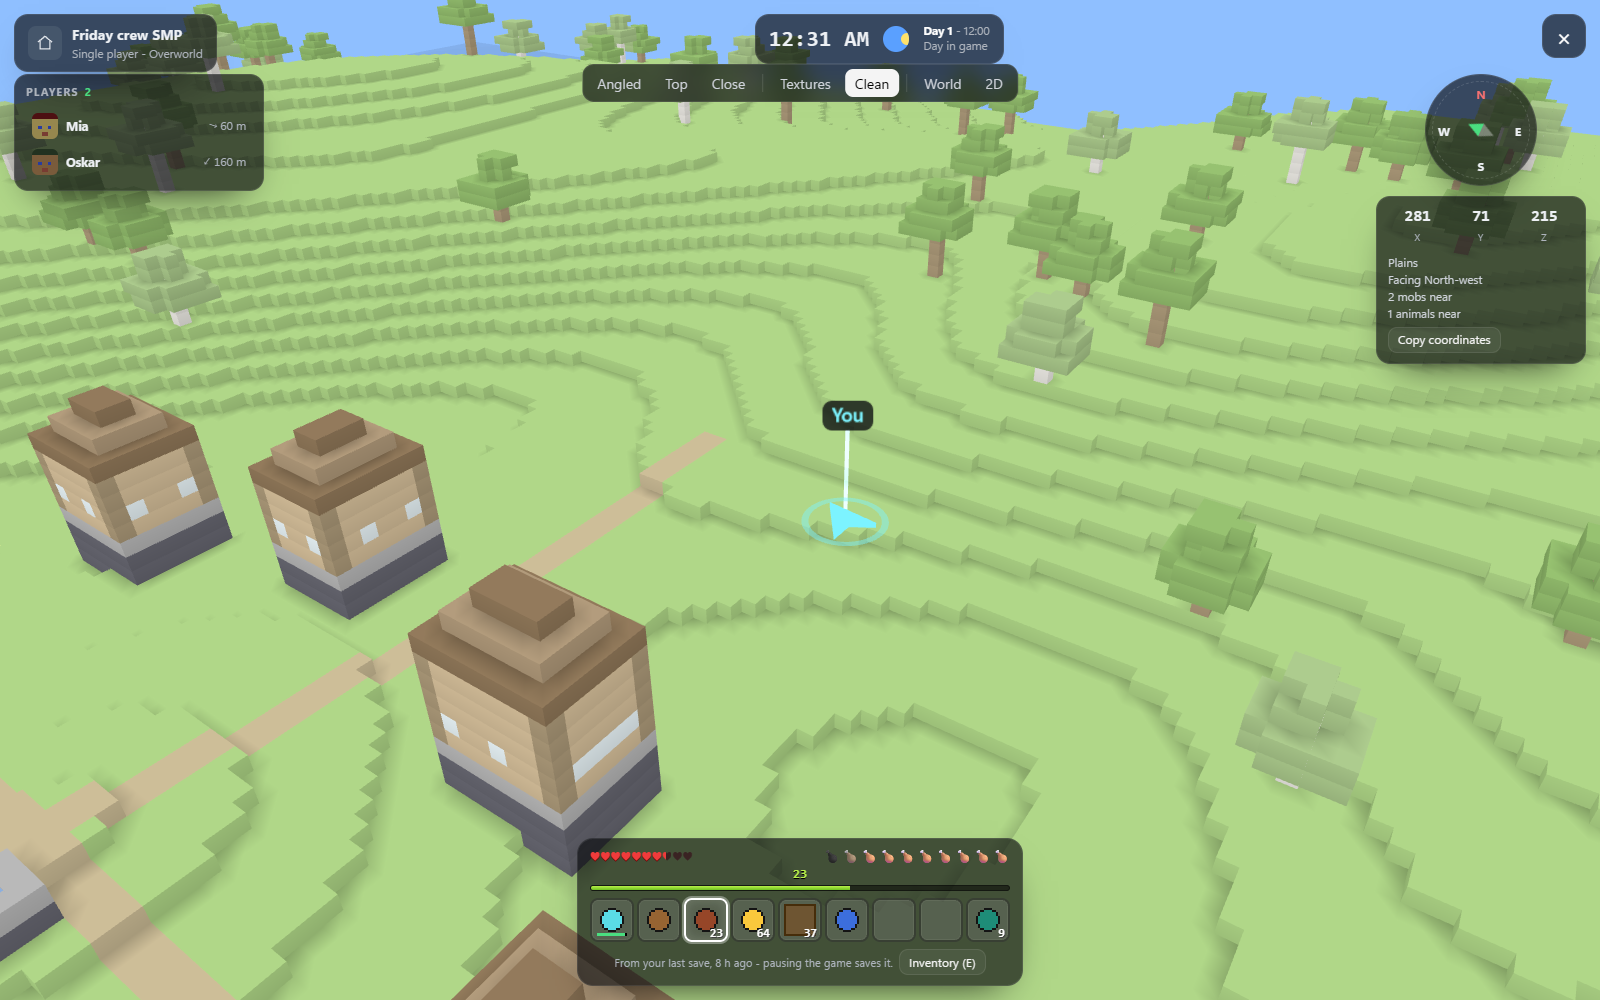
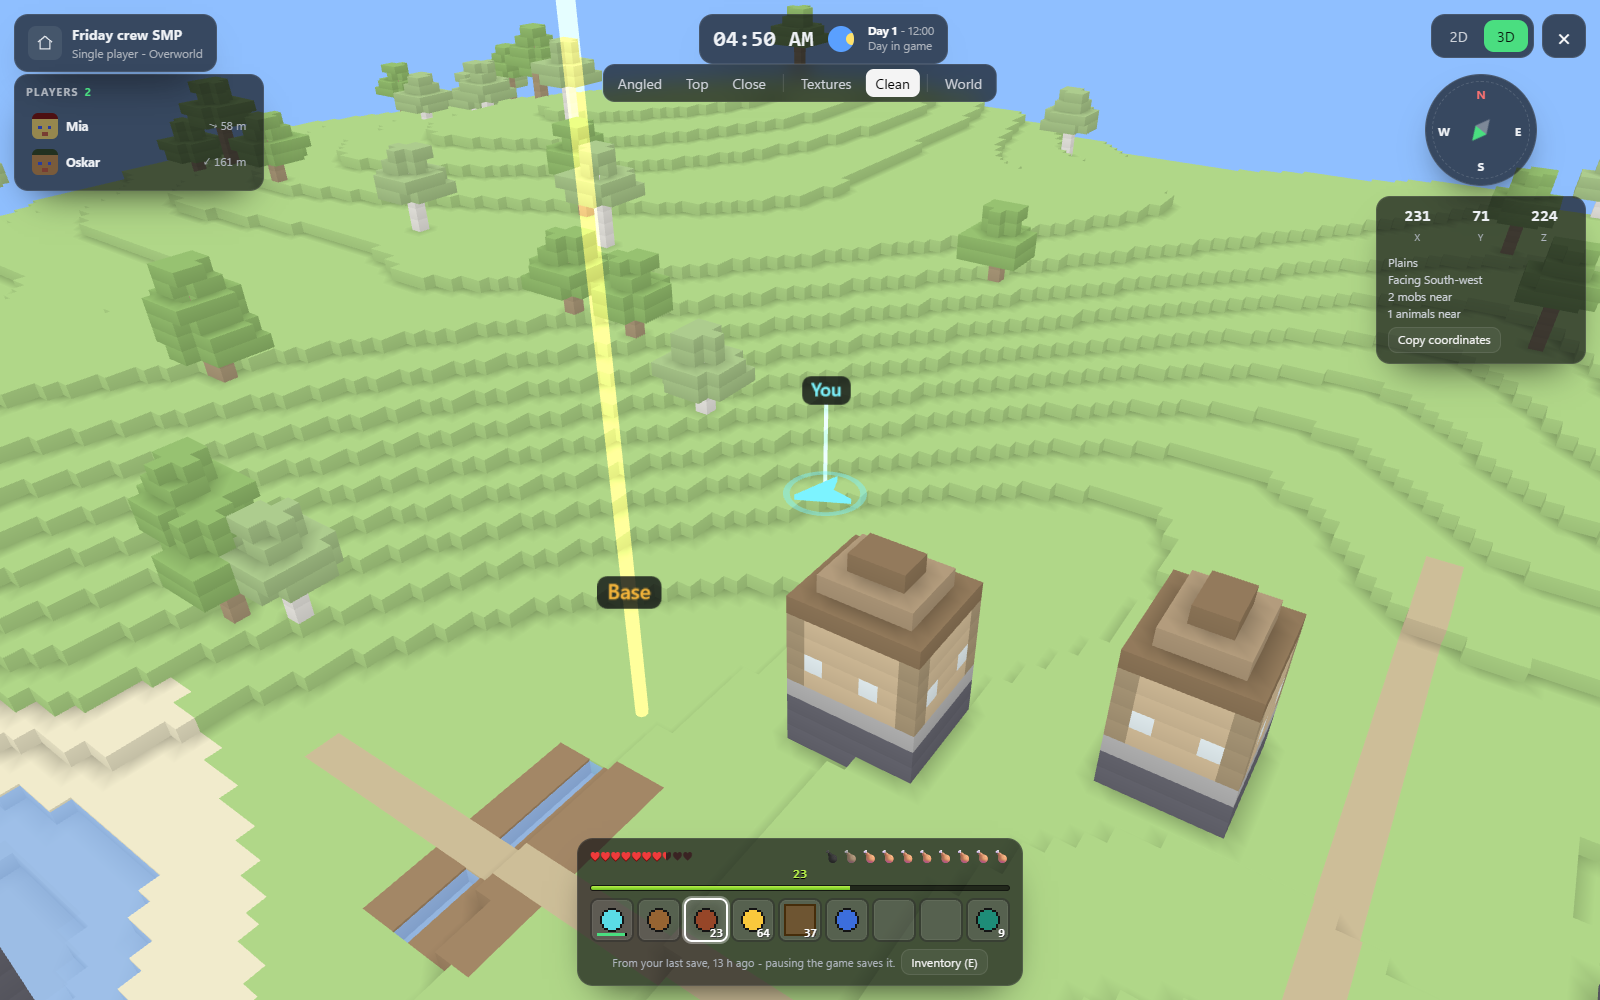
Publish the Nyxen site
Static build for GitHub Pages: the size and SHA-256 of the
installer are measured at build time rather than typed, the
screenshot gallery is generated from the shots folder, and the
download points at the Release rather than a file in the repo.

diff --git a/index.html b/index.html
@@ -551,11 +551,11 @@
       you already have - now in 3D blocks. Retro achievements. Your friends, and a 3D
       Space to hang out in. One Windows app that needs no account to be useful.</p>
     <div class="cta">
-      <a class="btn magnet" href="https://github.com/Kerioxsx/nyxen/releases/download/v1.10.0/NyxenSetup.exe"><span>Download for Windows</span>
+      <a class="btn magnet" href="https://github.com/Kerioxsx/nyxen/releases/download/v1.11.0/NyxenSetup.exe"><span>Download for Windows</span>
         <span class="arw" aria-hidden="true">&rarr;</span></a>
       <a class="btn ghost magnet" href="#look"><span>See it first</span></a>
     </div>
-    <p class="meta">Version 1.10.0 &middot; 40.6 MB &middot; Windows 10 and 11
+    <p class="meta">Version 1.11.0 &middot; 40.6 MB &middot; Windows 10 and 11
       &middot; no administrator rights needed</p>
     <div class="news">
       <a href="#s-map"><b>New</b>Minecraft in 3D blocks</a>
@@ -587,7 +587,7 @@
   </div>
 
   <section id="new">
-    <p class="eyebrow rise">New in 1.10.0</p>
+    <p class="eyebrow rise">New in 1.11.0</p>
     <h2 class="rise">The biggest update yet</h2>
     <p class="lead rise">Everything below is in the build on this page - click a picture to see it full size.</p>
 
@@ -596,10 +596,12 @@
       <div>
         <span class="kick">Minecraft</span>
         <h3>Your world, in real 3D blocks</h3>
-        <p>Press <b>3D</b> on the live map and your world turns into cubes - read straight from the
-          save on your PC, with the trees, water, snow and the houses you built. Your friends walk
-          around on it and your waypoints glow as beacons.</p>
+        <p>Flip the live map's <b>2D | 3D</b> switch (or press <b>M</b>) and your world turns into cubes - read
+          straight from the save on your PC, with the trees, water, snow and the houses you built. Your
+          friends walk around on it and your waypoints glow as beacons.</p>
         <ul>
+          <li>Smooth: built in the background, only what is on screen is drawn, and nothing at all while it sits still</li>
+          <li>Switching between 2D and 3D is instant, and Nyxen remembers the one you like</li>
           <li><b>Textures</b> uses your own game's block pictures, <b>Clean</b> draws it like a model</li>
           <li>Angled, from the top or close to the ground - drag to turn, scroll to zoom</li>
           <li>Full screen with your hotbar, health, the call and the time of day</li>
@@ -609,18 +611,20 @@
     </div>
 
     <div class="spot flip rise" id="s-space">
-      <div class="shotbox" data-full="shots/space.png"><img src="shots/space.png" alt="Chrome figures sitting on a couch in a white 3D world, watching a shared screen on a TV" loading="lazy">
-        <div class="pip"><img src="shots/space_build.png" alt="Building with pastel blocks in Nyxen Space" loading="lazy"></div></div>
+      <div class="shotbox" data-full="shots/space.png"><img src="shots/space.png" alt="Chrome figures around a couch in a white 3D world, watching a shared screen on a TV" loading="lazy">
+        <div class="pip"><img src="shots/space_build.png" alt="Building a brick house, a shop and a road in Nyxen Space" loading="lazy"></div></div>
       <div>
         <span class="kick beta">Beta</span>
         <h3>Nyxen Space: hang out in 3D</h3>
-        <p>A bright white world with a grid floor and a low sun, where you and your friends walk around
-          as puffy chrome figures with floating heads - in the chrome colour you pick.</p>
+        <p>A tab in Social: a white world with a grid floor and a soft sun - or a night one - where you and
+          your friends walk around as tall chrome figures with floating heads, dressed the way you like.</p>
         <ul>
-          <li>Talk: it is a real voice call, and people sound quieter the further away they stand</li>
+          <li>Your look: any chrome colour, mirror, satin, oil-slick or two-tone, height, build, face and a hat</li>
+          <li>Talk: a real voice call, quieter the further away people stand - and chat bubbles over heads</li>
           <li>Sit on the couch and watch whoever shares their screen on the TV</li>
-          <li>Build together, Minecraft-style: blocks in any colour, glass, lights and furniture</li>
-          <li>What you build stays, chat bubbles over heads, waves and dances</li>
+          <li>Build like a city builder: whole walls and rooms in one drag, roads, windows, lamps, cars,
+            and ready-made houses, shops, towers and parks</li>
+          <li>Make your own spaces, light or dark, and everything you build stays</li>
         </ul>
       </div>
     </div>
@@ -872,7 +876,7 @@
           <li>The Nyxen AI assistant</li>
           <li>52 themes, your own accent colour and font</li>
         </ul>
-        <a class="btn ghost" href="https://github.com/Kerioxsx/nyxen/releases/download/v1.10.0/NyxenSetup.exe"><span>Download free</span></a>
+        <a class="btn ghost" href="https://github.com/Kerioxsx/nyxen/releases/download/v1.11.0/NyxenSetup.exe"><span>Download free</span></a>
       </div>
       <div class="card plan best">
         <div class="pn">Nyxen Eclipse</div>
@@ -939,11 +943,11 @@
     <p class="eyebrow rise">Download</p>
     <h2 class="rise">One file. Open it, click Install, and it launches.</h2>
     <div class="cta rise" style="justify-content:flex-start">
-      <a class="btn magnet" href="https://github.com/Kerioxsx/nyxen/releases/download/v1.10.0/NyxenSetup.exe"><span>NyxenSetup.exe &middot; 40.6 MB</span>
+      <a class="btn magnet" href="https://github.com/Kerioxsx/nyxen/releases/download/v1.11.0/NyxenSetup.exe"><span>NyxenSetup.exe &middot; 40.6 MB</span>
         <span class="arw" aria-hidden="true">&darr;</span></a>
       <a class="btn ghost magnet" href="sha256.txt"><span>Checksum</span></a>
     </div>
-    <p class="meta">SHA-256 <code>2ec69ac373b36f0b71ed348a45aef800371647f110d7905761b919fb27d04b2e</code><br>
+    <p class="meta">SHA-256 <code>7ad03a37bb40b4391a2f179285e5cb298546ee7538ce87a901004668afb8f1a3</code><br>
       Check it with <code>certutil -hashfile NyxenSetup.exe SHA256</code> —
       built into Windows, nothing to install.</p>
     <div class="note rise" style="margin-top:22px">
@@ -957,9 +961,9 @@
   <footer>
     <span class="mark" style="width:26px;height:26px;border-radius:8px">
       <img src="logo.svg" alt="" width="26" height="26"></span>
-    <span>Nyxen 1.10.0 — made by Antonio</span>
+    <span>Nyxen 1.11.0 — made by Antonio</span>
     <a href="terms.html">Terms</a>
-    <a href="https://github.com/Kerioxsx/nyxen/releases/download/v1.10.0/NyxenSetup.exe">Download</a>
+    <a href="https://github.com/Kerioxsx/nyxen/releases/download/v1.11.0/NyxenSetup.exe">Download</a>
     <span class="right">Not affiliated with Valve, Mojang, Microsoft, Modrinth,
       Thunderstore, GameBanana, RetroAchievements or libretro.</span>
   </footer>

diff --git a/terms.html b/terms.html
@@ -98,7 +98,7 @@
   </a>
   <nav>
     <a href="index.html">Home</a>
-    <a href="https://github.com/Kerioxsx/nyxen/releases/download/v1.10.0/NyxenSetup.exe">Download</a>
+    <a href="https://github.com/Kerioxsx/nyxen/releases/download/v1.11.0/NyxenSetup.exe">Download</a>
   </nav>
 </header>
 
@@ -314,7 +314,7 @@ position for a free project made by one person.</p>
 <footer>
   <span>Nyxen 1.6.1</span>
   <a href="index.html">Home</a>
-  <a href="https://github.com/Kerioxsx/nyxen/releases/download/v1.10.0/NyxenSetup.exe">Download</a>
+  <a href="https://github.com/Kerioxsx/nyxen/releases/download/v1.11.0/NyxenSetup.exe">Download</a>
   <a href="sha256.txt">Checksum</a>
 </footer>
 
